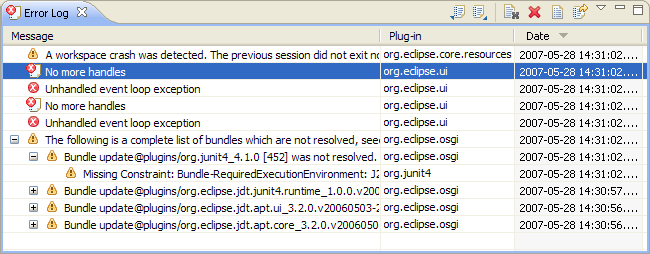
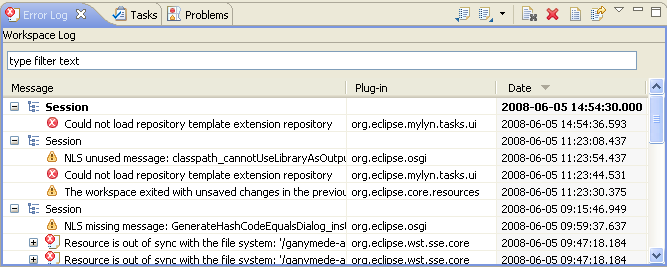
updating the error log view doc

diff --git a/bundles/org.eclipse.pde.doc.user/guide/tools/views/error_log.htm b/bundles/org.eclipse.pde.doc.user/guide/tools/views/error_log.htm
@@ -19,6 +19,9 @@
 <h2>Event Sorting</h2>
 <p>Events in the log view can be sorted by <strong>Message</strong>, <strong>Plug-in ID</strong> or <strong>Date</strong> in ascending or descending order. Simply click on the column header that you want the sorting to be based on. The down arrow in the column header indicates descending order; while, the up arrow indicates an ascending order.</p>
 
+<h2>Event Grouping</h2>
+<p>Events in the log view can be grouped by <strong>Session</strong> or <strong>Plug-in ID</strong>. Simply click on the chevron from the view's toolbar and select <strong>Group By</strong>. </p>
+
 <h2>Event Filtering</h2>
 <p>You can filter the view to show events of a particular type or session. Also, you can limit the number of entries in the view. Filtering options are available under <strong>Filters...</strong> from the view's toolbar drop down menu. </p>
 
